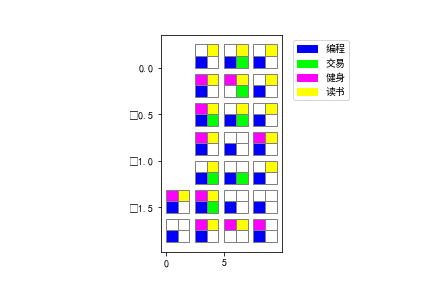
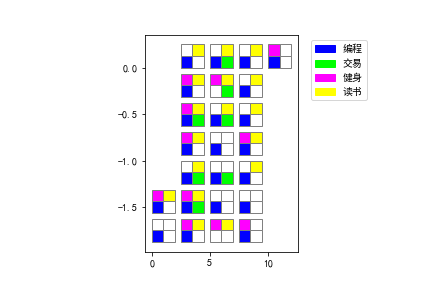
x Fix unicode_minus issue

diff --git a/data_vis.py b/data_vis.py
@@ -4,6 +4,7 @@ from matplotlib.patches import Rectangle, Patch
 import pandas as pd
 
 plt.rcParams["font.sans-serif"] = ["SimHei"]
+plt.rc('axes', unicode_minus=False)
 
 
 class DataParser:

diff --git a/bodybuiding.md b/bodybuiding.md
@@ -12,7 +12,9 @@
 ## 1+4：胸肌+肱二头肌
 * 上胸：上斜哑铃推举，4组8次（图6-10）
   * 细节：背部靠于45度斜板，保持核心稳定（勿反弓腰部），大臂内收（勿向上推）、
-* 肱二头肌：哑铃屈臂，3组5次
+* 肱二头肌：弯举，5组10次
+  * https://www.bilibili.com/video/BV1Ba411i7pv
+  * https://www.youtube.com/watch?v=B0ba4oUcWug
 
 ## 3+6：肩+腹肌
 * 肩膀中束：侧平举，3组12次（图1-5）
